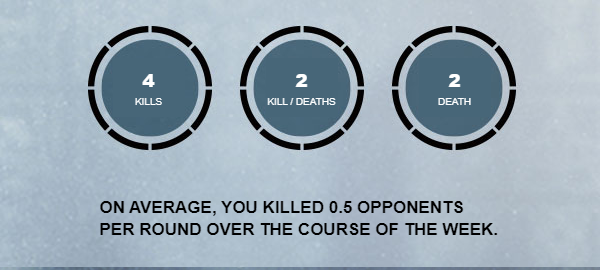
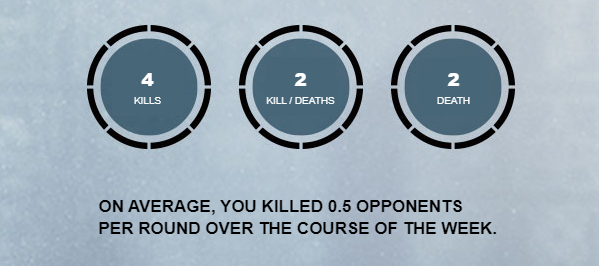
//Pre-background break

diff --git a/index.html b/index.html
@@ -57,8 +57,16 @@
     }
 
     #container {
-      background-color: #c8cccd;
-      overflow: hidden;
+      width: 100%;
+      height: 100%;
+      background:
+        /* top, transparent red */
+        linear-gradient(rgba(255, 255, 255, 0.45),
+          rgba(72, 84, 98, 0.0)),
+        /* bottom, image */
+        url(https://i.pinimg.com/originals/8c/3e/70/8c3e70a63646b6825a7f200647fe9806.jpg);
+      background-size: cover;
+      text-align: center;
 
     }
 
@@ -76,7 +84,7 @@
     #full-img {
       max-width: 100%;
       width: 100%;
-      padding: 2em 0 0 0;
+      /* padding: 2em 0 0 0; */
       overflow: hidden;
     }
 
@@ -85,6 +93,13 @@
       height: 17em;
       max-width: 100%;
       float: none;
+    }
+
+    .bottom {
+      /* width: 35em;
+      height: 17em;
+      max-width: 100%;
+      float: none; */
     }
 
     .username {
@@ -112,11 +127,25 @@
       display: block;
       margin-left: auto;
       margin-right: auto;
+      margin-bottom: 2em;
     }
 
-    /* .text-box {
-      background-color: #b2bbc4;
-    } */
+    .text-box {
+      height: 100%;
+      background:
+        /* top, transparent red */
+        linear-gradient(rgba(255, 255, 255, 0.45), rgba(72, 84, 98, 0.0)),
+        /* bottom, image */
+        url(/assets/download.png);
+      background-size: auto;
+      max-width: 100%;
+      width: 100%;
+      padding: 3em 0em 2em 0em;
+      overflow: auto;
+      text-align: center;
+      float: left;
+      color: white;
+    }
 
     .two-col {
       float: left;
@@ -130,8 +159,6 @@
       margin: auto;
       width: 90%;
     }
-
-
 
 
     .stars-container {
@@ -200,6 +227,13 @@
     .stars-100:after {
       width: 100;
     }
+
+    .line {
+      clear: both;
+      height: 1em;
+      background-color: #2f598dad;
+      opacity: 0.5;
+    }
   </style>
 </head>
 
@@ -237,7 +271,8 @@
       </div>
     </div>
     <!-- BOTTOM -->
-    <div class="bottom text-box">
+    <div id="bottom">
+      <div class="line"></div>
       <div class="one-col">
         <h6>
           THE 2ND ROUND WAS ACTUALLY YOUR BEST, DESPITE LOSING. YOU DIED 2 MINUTES AND 52 SECONDS
@@ -246,17 +281,20 @@
           TWO OPPONENTS WITH THERMITE. BUT YOUR TEAM EXPERIENCED A DEFEAT IN THAT ROUND AFTER BEING ELIMINATED.</h6>
       </div>
       <img id="full-img" src="./assets/kda-R6.png" alt="">
-      <h6 class="text-box">
-        THIS EMAIL IS IN BETA, WE WOULD LIKE TO GATHER YOUR OPINION TO KEEP
-        IMPROVING OUR SERVICE TO YOU. PLEASE TAKE A MOMENT TO RATE THIS EMAIL.
-      </h6>
-      <p>DO YOU LIKE THIS EMAIL? <span class="stars-container stars-90">★★★★★</span>
-      </p>
+      <div class="text-box">
+        <h6>
+          THIS EMAIL IS IN BETA, WE WOULD LIKE TO GATHER YOUR OPINION TO KEEP
+          IMPROVING OUR SERVICE TO YOU. PLEASE TAKE A MOMENT TO RATE THIS EMAIL.
+          <p></p>
+          <p>DO YOU LIKE THIS EMAIL? <span class="stars-container stars-90">★★★★★</span>
+        </h6>
+        </p>
+      </div>
     </div>
 
     <!-- FOOTER -->
     <footer>
-      <img src="./assets/Company-R6.png" alt="">
+      <img id="full-img" src="./assets/Company-R6.png" alt="">
       <hr />
       <a>
         <small>
